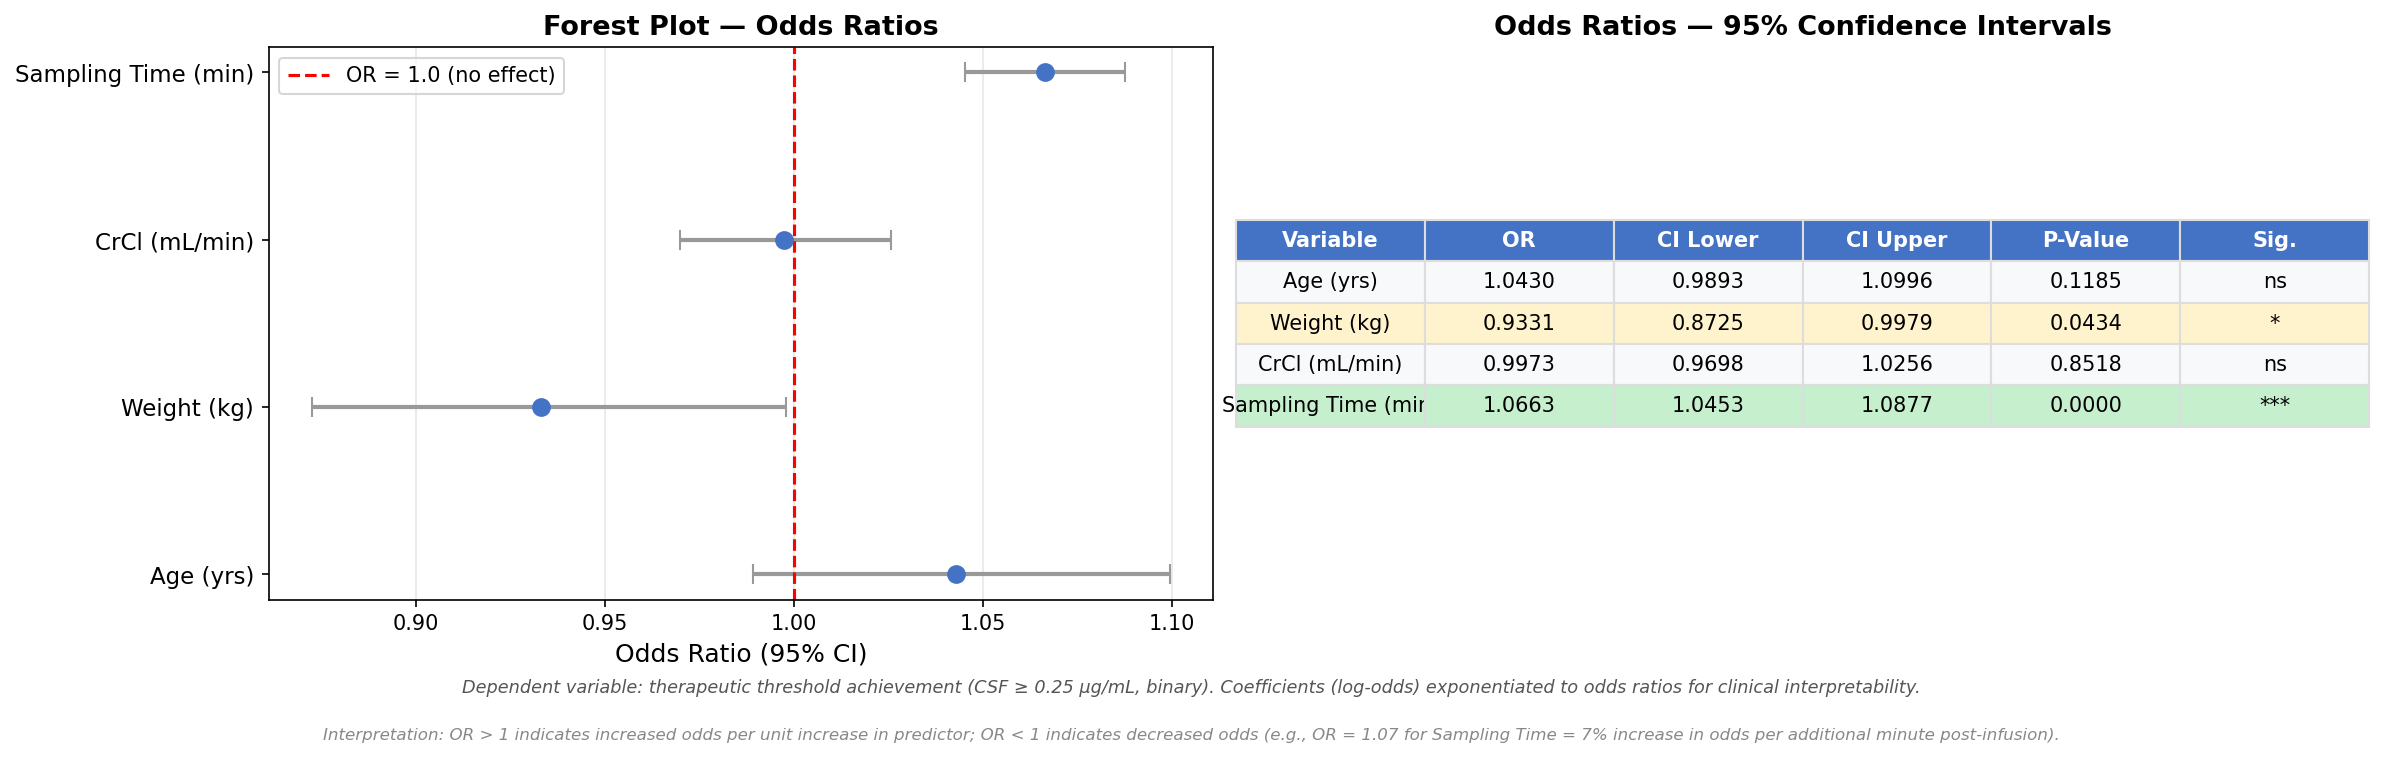
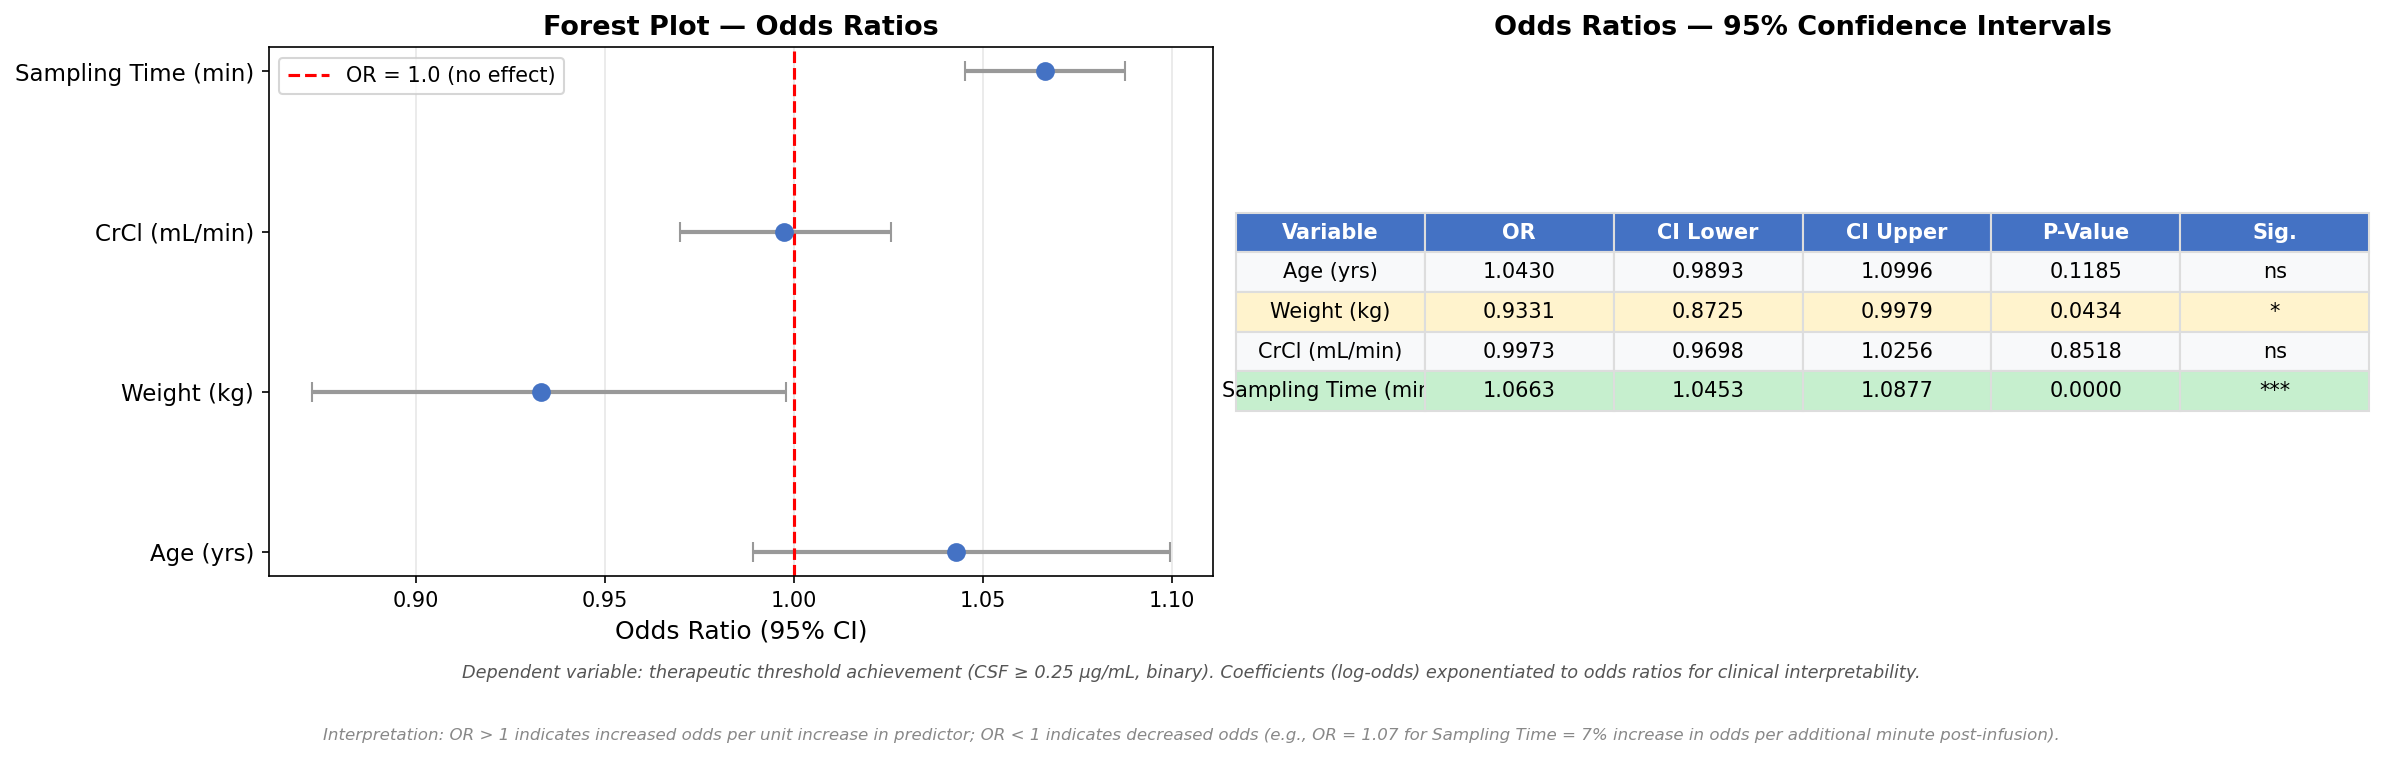
Adjust footnote margins in odds ratios figure

diff --git a/analysis.py b/analysis.py
@@ -259,8 +259,8 @@ for (row, col), cell in table5.get_celld().items():
 ax5b.set_title("Odds Ratios — 95% Confidence Intervals", fontsize=13, fontweight="bold")
 
 plt.tight_layout()
-fig5.subplots_adjust(bottom=0.22)
-fig5.text(0.5, 0.10,
+fig5.subplots_adjust(bottom=0.25)
+fig5.text(0.5, 0.12,
           "Dependent variable: therapeutic threshold achievement (CSF ≥ 0.25 µg/mL, binary). "
           "Coefficients (log-odds) exponentiated to odds ratios for clinical interpretability.",
           ha="center", fontsize=8.5, fontstyle="italic", color="#555555")
